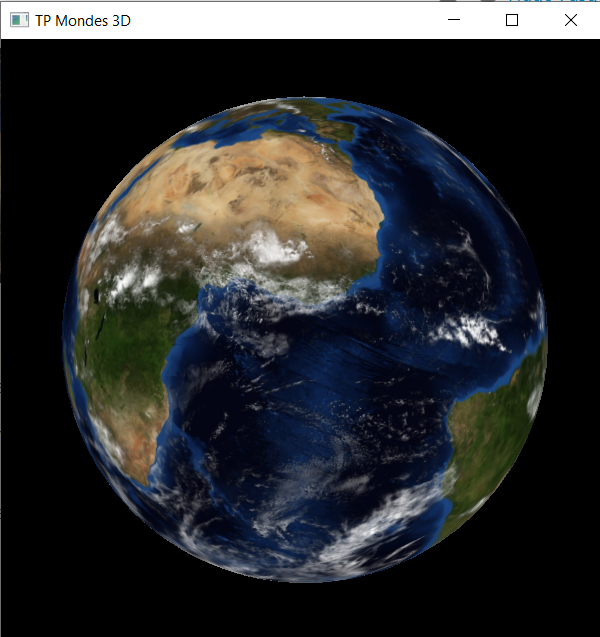
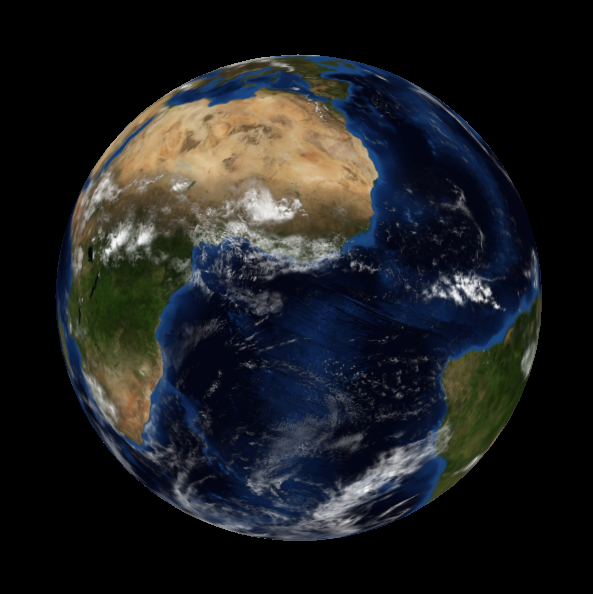
Filling the README.md file and updating result images

diff --git a/src/main.cpp b/src/main.cpp
@@ -55,7 +55,7 @@ GLFWwindow* initGLFW()
     glfwWindowHint(GLFW_OPENGL_FORWARD_COMPAT, (GLint)GL_TRUE);
     glfwWindowHint(GLFW_OPENGL_PROFILE, GLFW_OPENGL_CORE_PROFILE);
 
-    GLFWwindow* window = glfwCreateWindow(WIDTH, HEIGHT, "TP Mondes 3D", NULL, NULL);
+    GLFWwindow* window = glfwCreateWindow(WIDTH, HEIGHT, "Earth Viewer OpenGL", NULL, NULL);
     if (!window) {
         glfwTerminate();
         exit(EXIT_FAILURE);

diff --git a/README.md b/README.md
@@ -1,1 +1,20 @@
 # EarthOpenGL
+
+This is a simple OpenGL project that renders a sphere with a combinaison of different textures on it, especially a normal map, that gives the illusion of a bump map.
+
+This project is based on the course of Pierre Benard and Gaël Guennebaud, call "Monde 3D" at the University of Bordeaux.
+
+## Libraries
+- [GLFW](https://www.glfw.org/)
+- [GLAD](https://glad.dav1d.de/)
+- [GLM](https://glm.g-truc.net/0.9.9/index.html)
+- [SOIL](http://www.lonesock.net/soil.html)
+
+## Results
+
+![alt text](images/Jour.png "Earth at day")
+![alt text](images/Nuit.png "Earth at night")
+![alt text](images/Mix_nuage_.png "Earth with clouds")
+![alt text](images/Simulation_soleil.png "Earth with sun simulation")
+![alt text](images/Mix_nuage_nuit.png "Earth with clouds and night")
+![alt text](images/Normal.png "Earth with normal map")
